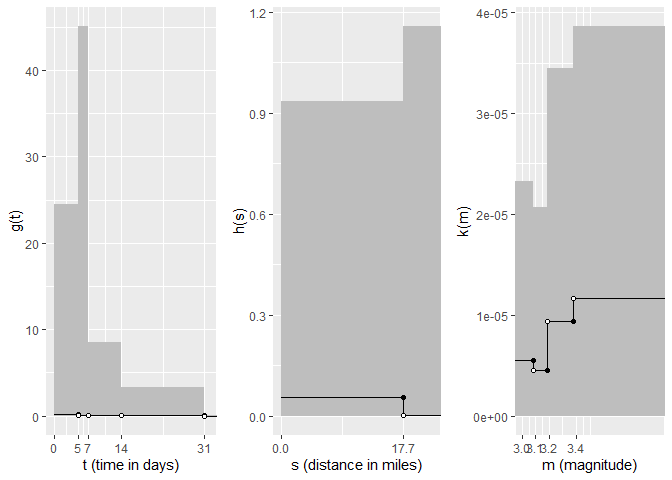
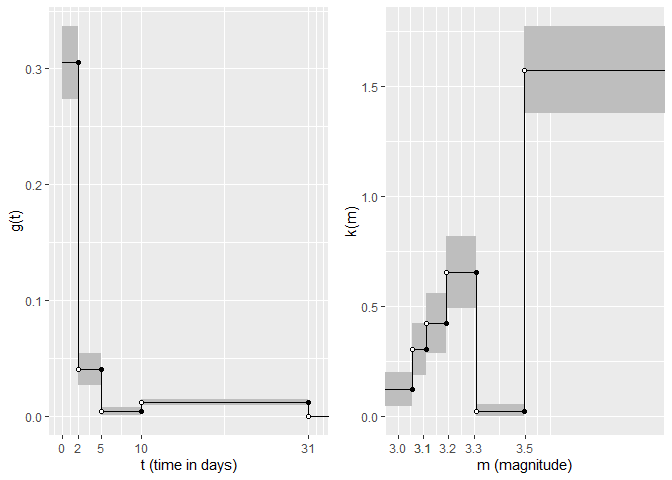
readme update

diff --git a/README.md b/README.md
@@ -37,67 +37,30 @@ data available within the package.
 
 ``` r
 library(nphawkes)
-load(file = "data/eq.RData")
+load(file = "data/quake.RData")
 head(quake)
-#>   X       lon         lat         t        m event_type     time       date
-#> 1 1 0.6944789 0.698142489  8.966234 3.756671 background 23:11:23 2010-01-09
-#> 2 2 0.6834387 0.686690810 10.223219 3.569237 aftershock  5:21:26 2010-01-11
-#> 3 3 0.7150710 0.674706658 12.579882 3.038466 aftershock  13:55:2 2010-01-13
-#> 4 4 0.9108068 0.629251374 19.361115 3.672588 background   8:40:0 2010-01-20
-#> 5 5 0.4389249 0.002338193 23.427427 3.047991 background 10:15:30 2010-01-24
-#> 6 6 0.3801922 0.120843447 29.829610 3.042964 background 19:54:38 2010-01-30
+#>         lon         lat         t        m     time       date
+#> 1 0.6944789 0.698142489  8.966234 3.756671 23:11:23 2010-01-09
+#> 2 0.6834387 0.686690810 10.223219 3.569237  5:21:26 2010-01-11
+#> 3 0.7150710 0.674706658 12.579882 3.038466  13:55:2 2010-01-13
+#> 4 0.9108068 0.629251374 19.361115 3.672588   8:40:0 2010-01-20
+#> 5 0.4389249 0.002338193 23.427427 3.047991 10:15:30 2010-01-24
+#> 6 0.3801922 0.120843447 29.829610 3.042964 19:54:38 2010-01-30
 ```
 
 We will first employ the MISD algorithm to decluster the earthquake
-catalog using time, space, and marks (magnitude). The temporal bins
+catalog using time and marks (magnitude). The temporal bins
 (time\_breaks) will be defined, in terms of days, and we will use
-roughly uniform bins for space and marks by setting the `space_quantile`
-and `mark_quantile` inputs equal to `TRUE`.
+roughly uniform bins for marks by setting the `mark_quantile` inputs
+equal to `TRUE`. We’ll set out reference date to be January 1, 2010, the
+date that our simulated catalog began.
 
 ``` r
 out = nph(dates = quake$date, ref_date = "2010-01-01",
-          lat = quake$lat, lon = quake$lon,
-          marks = quake$m,
-          time_breaks = c(0, 1, 3, 5, 7, 14, 31, 1500),
-          #mark_breaks = c(3, 3.1, 3.25, 3.4, 6),
-          space_breaks = c(0, 5, 10, 20, 50, 100),
-          time_quantile = FALSE,
-          space_quantile = FALSE,
-          mark_quantile = TRUE,
-          time_of_day = quake$time)
-
-out1 = nph(dates = quake$date, ref_date = "2010-01-01",
-          #lat = quake$lat, lon = quake$lon,
           marks = quake$m, 
-          time_breaks = c(0, 1, 3, 5, 7, 14, 31, 1500),
-          #mark_breaks = c(3, 3.1, 3.25, 3.4, 6),
+          time_breaks = c(0, 2, 5, 10, 31, 1500),
           time_quantile = FALSE,
-          #space_quantile = TRUE,
           mark_quantile = TRUE,
-          time_of_day = quake$time)
-
-out2 = nph(dates = quake$date, ref_date = "2010-01-01",
-          lat = quake$lat, lon = quake$lon,
-          #marks = quake$m,
-          time_breaks = c(0, 1, 3, 5, 7, 14, 31, 1500),
-          #mark_breaks = c(3, 3.1, 3.25, 3.4, 6),
-          time_quantile = FALSE,
-          space_quantile = TRUE,
-          #mark_quantile = TRUE,
-          time_of_day = quake$time)
-
-out4 = nph(dates = quake$date, ref_date = "2010-01-01",
-          lat = quake$lat, lon = quake$lon,
-          marks = quake$m,
-          time_breaks = c(0, 5, 7, 14, 31, 1500),
-          #mark_breaks = c(3, 3.1, 3.25, 3.4, 6),
-          #space_breaks = c(0, 5, 10, 20, 50, 100),
-          time_quantile = FALSE,
-          space_quantile = TRUE,
-          mark_quantile = TRUE,
-          h_length = 4,
-          k_length = 4,
-          #mark_quantile = FALSE,
           time_of_day = quake$time)
 ```
 
@@ -106,9 +69,9 @@ diagonal of the resulting probability matrix.
 
 ``` r
 out$br
-#> [1] 0.4709993
+#> [1] 0.2273166
 out$perc_diag
-#> [1] 0.9999999
+#> [1] 0.4835902
 ```
 
 We can then inspect histogram estimators of the triggering functions.
@@ -116,58 +79,48 @@ The triggering plots include standard error estimates, which can be
 separately calculated using `se_bars(model)`.
 
 ``` r
-trig_plots(model = out4, g_max = 32,
-           k_max = 4, k_min = 3,  
-           h_max = 22)
+trig_plots(model = out, g_max = 32,
+           k_max = 4, k_min = 3)
 ```
 
 <img src="man/figures/README-unnamed-chunk-4-1.png" width="100%" />
 
-    #> TableGrob (1 x 3) "arrange": 3 grobs
+    #> TableGrob (1 x 2) "arrange": 2 grobs
     #>   z     cells    name           grob
     #> 1 1 (1-1,1-1) arrange gtable[layout]
     #> 2 2 (1-1,2-2) arrange gtable[layout]
-    #> 3 3 (1-1,3-3) arrange gtable[layout]
 
 We’ll now calculate the conditional intensity of the process.
 
 ``` r
 ci = cond_int(model = out)
 head(ci)
-#>       times         lat       lon    marks  cond_int       Date
-#> 1  8.966238 0.698142489 0.6944789 3.756671 0.4756867 2010-01-09
-#> 2 10.223218 0.686690810 0.6834387 3.569237 0.4709993 2010-01-11
-#> 3 12.579884 0.674706658 0.7150710 3.038466 0.4709993 2010-01-13
-#> 4 19.361111 0.629251374 0.9108068 3.672588 0.4709993 2010-01-20
-#> 5 23.427431 0.002338193 0.4389249 3.047991 0.4709993 2010-01-24
-#> 6 29.829606 0.120843447 0.3801922 3.042964 0.4709993 2010-01-30
+#>       times lat lon    marks  cond_int       Date
+#> 1  8.966238   0   0 3.756671 0.2300374 2010-01-09
+#> 2 10.223218   0   0 3.569237 0.7084398 2010-01-11
+#> 3 12.579884   0   0 3.038466 0.3536702 2010-01-13
+#> 4 19.361111   0   0 3.672588 0.2528203 2010-01-20
+#> 5 23.427431   0   0 3.047991 0.3293583 2010-01-24
+#> 6 29.829606   0   0 3.042964 0.2853797 2010-01-30
 ```
 
 We can perfrom super-thinning as a residual method, thinning events in
 areas of high conditional intenstiy and superpositioning events in areas
 of low intensity. We’ll use the median value of the conditional
-intensity as the threshhold value. We’ll use the `sim_grid = TRUE`
-argument since the geographical coordinates are simulated within the
-\(`[0\times1]\times[0\times1]`\) grid.
+intensity as the threshhold value.
+<!-- We'll use the `sim_grid = TRUE` argument since the geographical coordinates are simulated within the $`[0\times1]\times[0\times1]`$ grid.  -->
 
 ``` r
 st = super_thin(K = "median_ci", model = out,
-                method = "superthin", sim_grid = TRUE)
+                method = "superthin")
 head(st)
-#>       times         lat       lon    marks  cond_int       Date         p keep
-#> 1  8.966238 0.698142489 0.6944789 3.756671 0.4756867 2010-01-09 0.9901461    1
-#> 2 10.223218 0.686690810 0.6834387 3.569237 0.4709993 2010-01-11 1.0000000    1
-#> 3 12.579884 0.674706658 0.7150710 3.038466 0.4709993 2010-01-13 1.0000000    1
-#> 4 19.361111 0.629251374 0.9108068 3.672588 0.4709993 2010-01-20 1.0000000    1
-#> 5 23.427431 0.002338193 0.4389249 3.047991 0.4709993 2010-01-24 1.0000000    1
-#> 6 29.829606 0.120843447 0.3801922 3.042964 0.4709993 2010-01-30 1.0000000    1
-#>     type
-#> 1 retain
-#> 2 retain
-#> 3 retain
-#> 4 retain
-#> 5 retain
-#> 6 retain
+#>          times lat lon    marks  cond_int       Date         p keep   type
+#> 1     8.966238   0   0 3.756671 0.2300374 2010-01-09 1.0000000    1 retain
+#> 2    10.223218   0   0 3.569237 0.7084398 2010-01-11 0.6534822    1 retain
+#> 3    12.579884   0   0 3.038466 0.3536702 2010-01-13 1.0000000    1 retain
+#> 4    19.361111   0   0 3.672588 0.2528203 2010-01-20 1.0000000    1 retain
+#> 5    23.427431   0   0 3.047991 0.3293583 2010-01-24 1.0000000    1 retain
+#> 1010 28.054566   1   0 3.000474 0.2773382 2010-01-29 0.4009364    1    sim
 ```
 
 After super-thinning, we can view a histogram of the residual process to
